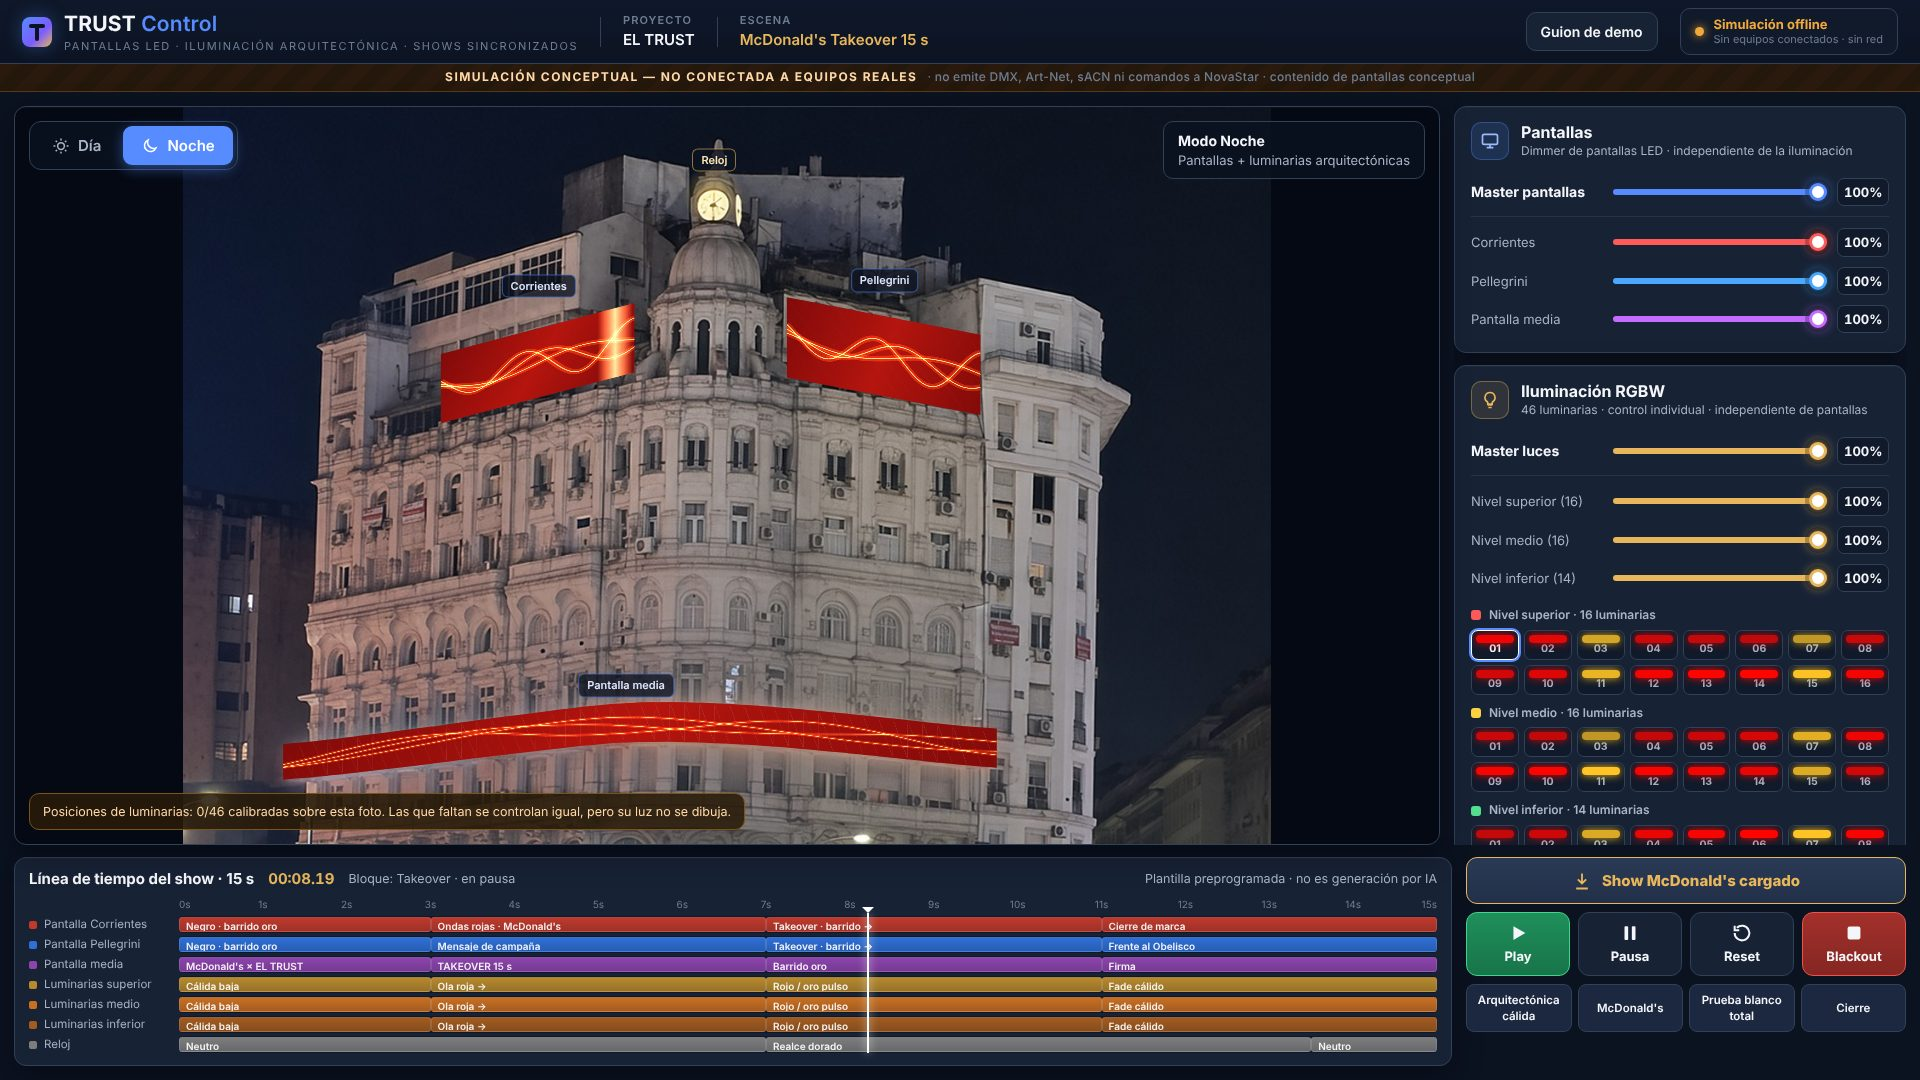
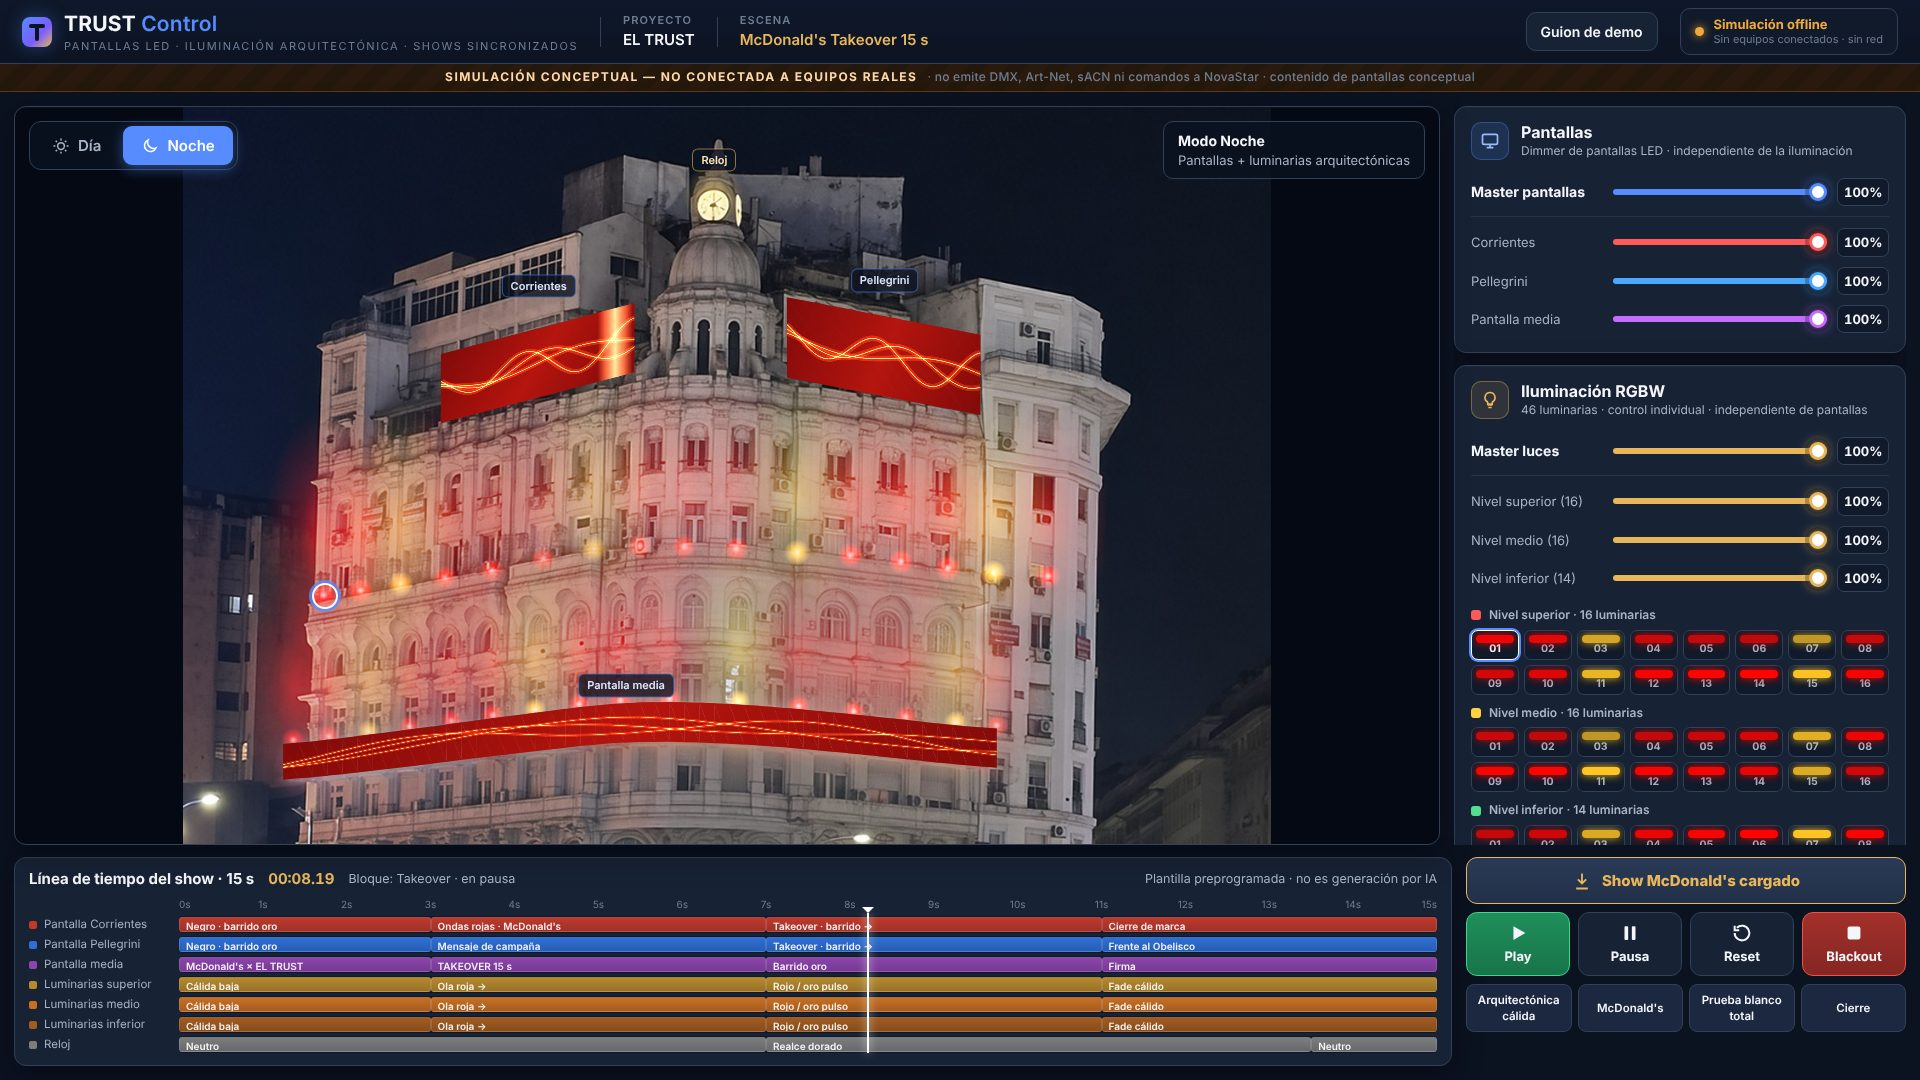
kit(#73): TRUST Control — luminarias ubicadas con la imagen anotada de Fer
- 16 superiores sobre la cornisa arriba de las ventanas de arco y 16 medias
  sobre el borde superior de la marquesina, transferidas a la foto nocturna
  por anclas de fachada comunes (bordes, eje de la ochava/reloj, unión con
  la torre, extremos y cumbre de la marquesina). Método en luminarias.js.
- Rojo: 17 círculos dibujados → 16 equipos re-muestreados (a validar).
- 14 inferiores: fuera de cuadro en esta foto; se controlan, no se dibujan.
- Halo de bañador más visible; nunca sobre pantallas (máscara).
- prueba_control.py: 40/40 OK (+ posiciones reales, ninguna sobre pantalla).
- Capturas y paquete offline regenerados y verificados.

Claude-Session: https://claude.ai/code/session_01DXe61vLeD4dUBhNGGR4spu

Changed region(s): [[0.125, 0.3667, 0.5938, 0.7028], [0.0, 0.7333, 0.4062, 0.7944]]

diff --git a/kit/mcd-73/control/luminarias.js b/kit/mcd-73/control/luminarias.js
@@ -1,13 +1,53 @@
 // Posiciones de las 46 luminarias SOBRE fotos/trust-noche.jpg (coordenadas normalizadas 0..1 de ESA foto).
-// Fuente obligatoria: la imagen anotada de Fer «UBICACIÓN REAL DE LUMINARIAS» (ROJO superior 16 · AMARILLO medio 16 · VERDE inferior 14).
-// Esa imagen es OTRA foto y OTRA perspectiva: sus píxeles NO se copian acá. Cada punto se ubica a mano sobre esta foto
-// (editor de posiciones: Shift+E) mirando la imagen anotada, y se anota abajo quién y cuándo lo calibró.
-// Mientras un equipo no tenga posición, se controla igual (panel y timeline) pero no se dibuja su luz sobre la foto.
+// Fuente: imagen anotada de Fer «UBICACIÓN REAL DE LUMINARIAS» (1024×1536, foto de día, otra perspectiva), recibida el 14/10/2026.
+// Sus píxeles NO se copiaron: cada fila se transfirió por referencias de la fachada que se ven en las dos fotos.
+//
+// ROJO · nivel superior (16): sobre la cornisa que corre arriba de las ventanas de arco (borde superior leído sobre esta foto
+//   con grilla de 0,01). Posición a lo largo de la fachada, lineal por tramos entre 4 anclas comunes:
+//   borde izquierdo del edificio (anotada x≈100 → 0,118) · eje de la ochava / reloj (625 → 0,4875) ·
+//   unión con la torre blanca (893 → 0,735) · borde derecho de la torre (980 → 0,838).
+//   La anotada tiene 17 círculos rojos (numerales 5 y 8 repetidos, falta el 13) contra 16 de la leyenda: se mantuvieron los
+//   extremos y la distribución dibujada y se re-muestrearon a 16 equipos por índice. A VALIDAR con Fer.
+// AMARILLO · nivel medio (16): sobre el borde superior de la pantalla media (marquesina), con sus mismas 3 anclas:
+//   extremo izquierdo (87 → 0,092) · punto más alto (620 → 0,4473) · extremo derecho (947 → 0,748).
+// VERDE · nivel inferior (14): sobre los locales de planta baja. Esa franja queda FUERA DE CUADRO en esta foto (corta un piso
+//   debajo de la marquesina): se controlan igual en el panel y el timeline, pero no se dibujan. No se inventa su lugar.
 // Ubicaciones PRELIMINARES de presentación: no son plano de montaje ni verificación física.
 window.LUMINARIAS = {
[1 lines of base64/hex data omitted]
-  calibracion: null, // p. ej. { por: 'Claude con Fer', fecha: '2026-10-14', referencia: 'imagen anotada 1024×1536' }
[1 lines of base64/hex data omitted]
+  calibracion: { por: 'Claude, sobre la imagen anotada de Fer', fecha: '2026-10-14', referencia: 'imagen anotada 1024×1536', fuera_de_cuadro: ['inferior'] },
   puntos: {
-    // 'SUP-01': [x, y], ...
+    'SUP-01': [0.1293, 0.6624],
+    'SUP-02': [0.1632, 0.6562],
+    'SUP-03': [0.1998, 0.6471],
+    'SUP-04': [0.2406, 0.6389],
+    'SUP-05': [0.284, 0.6289],
+    'SUP-06': [0.3313, 0.6135],
+    'SUP-07': [0.3774, 0.5996],
+    'SUP-08': [0.4197, 0.596],
+    'SUP-09': [0.4607, 0.5965],
+    'SUP-10': [0.5086, 0.5994],
+    'SUP-11': [0.5645, 0.6043],
+    'SUP-12': [0.6135, 0.6084],
+    'SUP-13': [0.6598, 0.617],
+    'SUP-14': [0.7029, 0.6256],
+    'SUP-15': [0.7449, 0.6321],
+    'SUP-16': [0.7954, 0.6367],
+    'MED-01': [0.1013, 0.859],
+    'MED-02': [0.134, 0.8542],
+    'MED-03': [0.1707, 0.8476],
+    'MED-04': [0.208, 0.8406],
+    'MED-05': [0.2467, 0.8329],
+    'MED-06': [0.2846, 0.8252],
+    'MED-07': [0.3233, 0.818],
+    'MED-08': [0.364, 0.8104],
+    'MED-09': [0.402, 0.8053],
+    'MED-10': [0.4473, 0.8032],
+    'MED-11': [0.5108, 0.8067],
+    'MED-12': [0.5659, 0.813],
+    'MED-13': [0.6165, 0.8201],
+    'MED-14': [0.6643, 0.8275],
+    'MED-15': [0.7103, 0.8348],
+    'MED-16': [0.748, 0.8394],
   },
 };

diff --git a/kit/mcd-73/control/app.js b/kit/mcd-73/control/app.js
@@ -197,10 +197,10 @@
       const p = puntos[s.id];
       if (!p || s.nivel <= 0.002) continue;
       const [r, g, b] = rgbDe(s.rgbw).map((v) => Math.round(v * 255));
-      const x = p[0] * W, y = p[1] * H, rx = sep[s.grupo] * 0.95, ry = rx * 1.75, k = s.nivel;
+      const x = p[0] * W, y = p[1] * H, rx = sep[s.grupo] * 1.3, ry = rx * 2.1, k = s.nivel;   // bañador hacia arriba: más alto que ancho
       lctx.save(); lctx.translate(x, y - ry * 0.45); lctx.scale(1, ry / rx);
       const gr = lctx.createRadialGradient(0, 0, 0, 0, 0, rx);
-      gr.addColorStop(0, `rgba(${r},${g},${b},${0.5 * k})`); gr.addColorStop(0.45, `rgba(${r},${g},${b},${0.22 * k})`); gr.addColorStop(1, `rgba(${r},${g},${b},0)`);
+      gr.addColorStop(0, `rgba(${r},${g},${b},${0.66 * k})`); gr.addColorStop(0.45, `rgba(${r},${g},${b},${0.3 * k})`); gr.addColorStop(1, `rgba(${r},${g},${b},0)`);
       lctx.fillStyle = gr; lctx.beginPath(); lctx.arc(0, 0, rx, 0, Math.PI * 2); lctx.fill(); lctx.restore();
       const hs = lctx.createRadialGradient(x, y, 0, x, y, rx * 0.22);
       hs.addColorStop(0, `rgba(255,255,255,${0.85 * k})`); hs.addColorStop(0.35, `rgba(${r},${g},${b},${0.8 * k})`); hs.addColorStop(1, `rgba(${r},${g},${b},0)`);
@@ -509,7 +509,7 @@
       const dn = $('d-nivel'); if (document.activeElement !== dn) dn.value = f.nivel; dn.style.setProperty('--p', dn.value + '%');
       $('d-nivel-v').textContent = f.nivel + '%';
       const so = sal.luces.find((x) => x.id === seleccion);
-      $('d-pos').textContent = `salida ${Math.round(so.nivel * 100)}%` + (f.color ? ' · color propio' : ' · color de escena');
+      $('d-pos').textContent = `salida ${Math.round(so.nivel * 100)}%` + (f.color ? ' · color propio' : ' · color de escena') + (puntos[f.id] ? '' : ' · fuera de cuadro en esta foto');
       for (const k of ['r', 'g', 'b', 'w']) { const el = $('d-' + k); el.style.setProperty('--p', el.value + '%'); $('d-' + k + '-v').textContent = el.value + '%'; }
     }
     // marcador de la luminaria seleccionada
@@ -522,8 +522,9 @@
     const avisos = [];
     if (avisoTmp) avisos.push(avisoTmp);
     if (est.vista === 'dia' && ultimaInfo.foto !== 'dia') avisos.push('Foto diurna pendiente: falta la toma de día desde el mismo punto. Se muestra la nocturna; los niveles no cambian.');
-    const conPos = Object.keys(puntos).length;
-    if (conPos < 46) avisos.push(`Posiciones de luminarias: ${conPos}/46 calibradas sobre esta foto. Las que faltan se controlan igual, pero su luz no se dibuja.`);
+    const fuera = new Set(((L && L.calibracion && L.calibracion.fuera_de_cuadro) || []));
+    const faltan = est.luces.fixtures.filter((f) => !puntos[f.id] && !fuera.has(f.grupo)).length;
+    if (faltan) avisos.push(`Posiciones de luminarias: faltan ${faltan} por calibrar sobre esta foto. Se controlan igual, pero su luz no se dibuja.`);
     if (puntosDePrueba) avisos.push('Posiciones SINTÉTICAS de prueba (no son las reales).');
     if (est.blackout) avisos.push('BLACKOUT activo: salida en negro. Los niveles guardados se recuperan al soltarlo.');
     $('aviso').innerHTML = avisos.join('<br>');

diff --git a/kit/mcd-73/control/prueba_control.py b/kit/mcd-73/control/prueba_control.py
@@ -71,6 +71,26 @@ async def main(out):
         ok(cx(q['corrientes']['quads'][0]) < cx(q['pellegrini']['quads'][0]), 'Corrientes a la izquierda, Pellegrini a la derecha')
         ok(len(q['media']['quads']) == 24, 'pantalla media: 24 tramos de la curva de la ochava')
 
+        # --- posiciones reales de luminarias (transferidas desde la imagen anotada de Fer)
+        lum = await ev('LUMINARIAS')
+        pts = lum['puntos']
+        ok(lum['foto_sha256'] == sha_foto, 'luminarias.js calibrado sobre esta misma foto (sha256)')
+        ok(sum(k.startswith('SUP') for k in pts) == 16 and sum(k.startswith('MED') for k in pts) == 16 and not any(k.startswith('INF') for k in pts),
+           'posiciones: 16 superior + 16 medio; las 14 inferiores no se dibujan (fuera de cuadro en esta foto)')
+        def dentro(pt, qd):
+            s = 0
+            for i in range(4):
+                (x1, y1), (x2, y2) = qd[i], qd[(i + 1) % 4]
+                c = (x2 - x1) * (pt[1] - y1) - (y2 - y1) * (pt[0] - x1)
+                s += 1 if c > 0 else -1 if c < 0 else 0
+            return abs(s) == 4
+        pisa = [k for k, pt in pts.items() for sid in ('corrientes', 'pellegrini', 'media') for qd in q[sid]['quads'] if dentro(pt, qd)]
+        ok(all(0 < v < 1 for pt in pts.values() for v in pt) and not pisa, f'ninguna luminaria cae sobre una pantalla ({pisa or "ninguna"})')
+        sx = [pts[f'SUP-{i:02d}'][0] for i in range(1, 17)]; mx = [pts[f'MED-{i:02d}'][0] for i in range(1, 17)]
+        ok(sx == sorted(sx) and mx == sorted(mx), 'numeración de izquierda (Corrientes) a derecha (Pellegrini), como en la imagen anotada')
+        inf2 = await ev('TRUST.info()')
+        ok(inf2['lucesDibujadas'] == 32, f'escena arquitectónica: se dibujan las 32 luminarias en cuadro ({inf2["lucesDibujadas"]})')
+
         # --- independencia y niveles (motor)
         M = 'TRUST.motor'
         await ev(f'{M}.reiniciarTodo()')

diff --git a/kit/mcd-73/README.md b/kit/mcd-73/README.md
@@ -21,7 +21,7 @@ Fuentes: `apps/control/public/experience/obelisco-wide.jpg`, `docs/screenshots/m
 
 Claims: HOY FUNCIONA sale de `docs/collab/PROGRESO.md` (software 21/24 con PR+AUDIT, 0/24 con equipo real); pantallas = flujo de aprobación que funciona hoy; fachada RGBW y reloj = simulación / se implementará; sincronía = simulada, no medida.
 
-Pendiente de Fer para TRUST Control: (1) la imagen anotada original para calibrar las 46 posiciones sobre `control/fotos/trust-noche.jpg` (`control/luminarias.js`, editor Shift+E); (2) una foto de DÍA desde el mismo punto (`control/fotos/trust-dia.jpg` + `generar_geometria.py`). Hasta entonces Día usa la nocturna con aviso y la luz de cada equipo no se dibuja.
+TRUST Control — luminarias (14/10): con la imagen anotada de Fer se transfirieron a `control/fotos/trust-noche.jpg` las 16 superiores (cornisa sobre las ventanas de arco; 17 círculos → 16 re-muestreados, A VALIDAR) y las 16 medias (borde superior de la marquesina), por anclas de fachada comunes a las dos fotos (método en `control/luminarias.js`). Las 14 inferiores (locales de planta baja) quedan fuera de cuadro en esa foto: se controlan pero no se dibujan. Pendiente de Fer: validar las posiciones en las capturas y una foto de DÍA desde el mismo punto (`control/fotos/trust-dia.jpg` + `generar_geometria.py`). Hasta entonces Día usa la nocturna con aviso y la luz de cada equipo no se dibuja.
 
 Pendiente: posiciones de las 46 luminarias (16 roja / 16 amarilla / 14 verde, según la leyenda de la imagen anotada; corrige el 14/16/16 anterior). Las coordenadas de referencia transcriptas en #73 están en `consola/luminarias-referencia.json`, **en el espacio de la imagen anotada (1024×1536), no de `base-trust-noche.jpg`**: no se aplican sin calibración visual contra el original. Hay 17 círculos rojos visibles contra 16 declarados: pendiente de validar con Fer; no se elige cuál sobra. La consola ya opera sin ellas; con la imagen, cargar posiciones (editor → `luminarias.js`) y sacar los 3 stills de validación. Fotos: falta confirmar que son propias o de uso autorizado.
 
